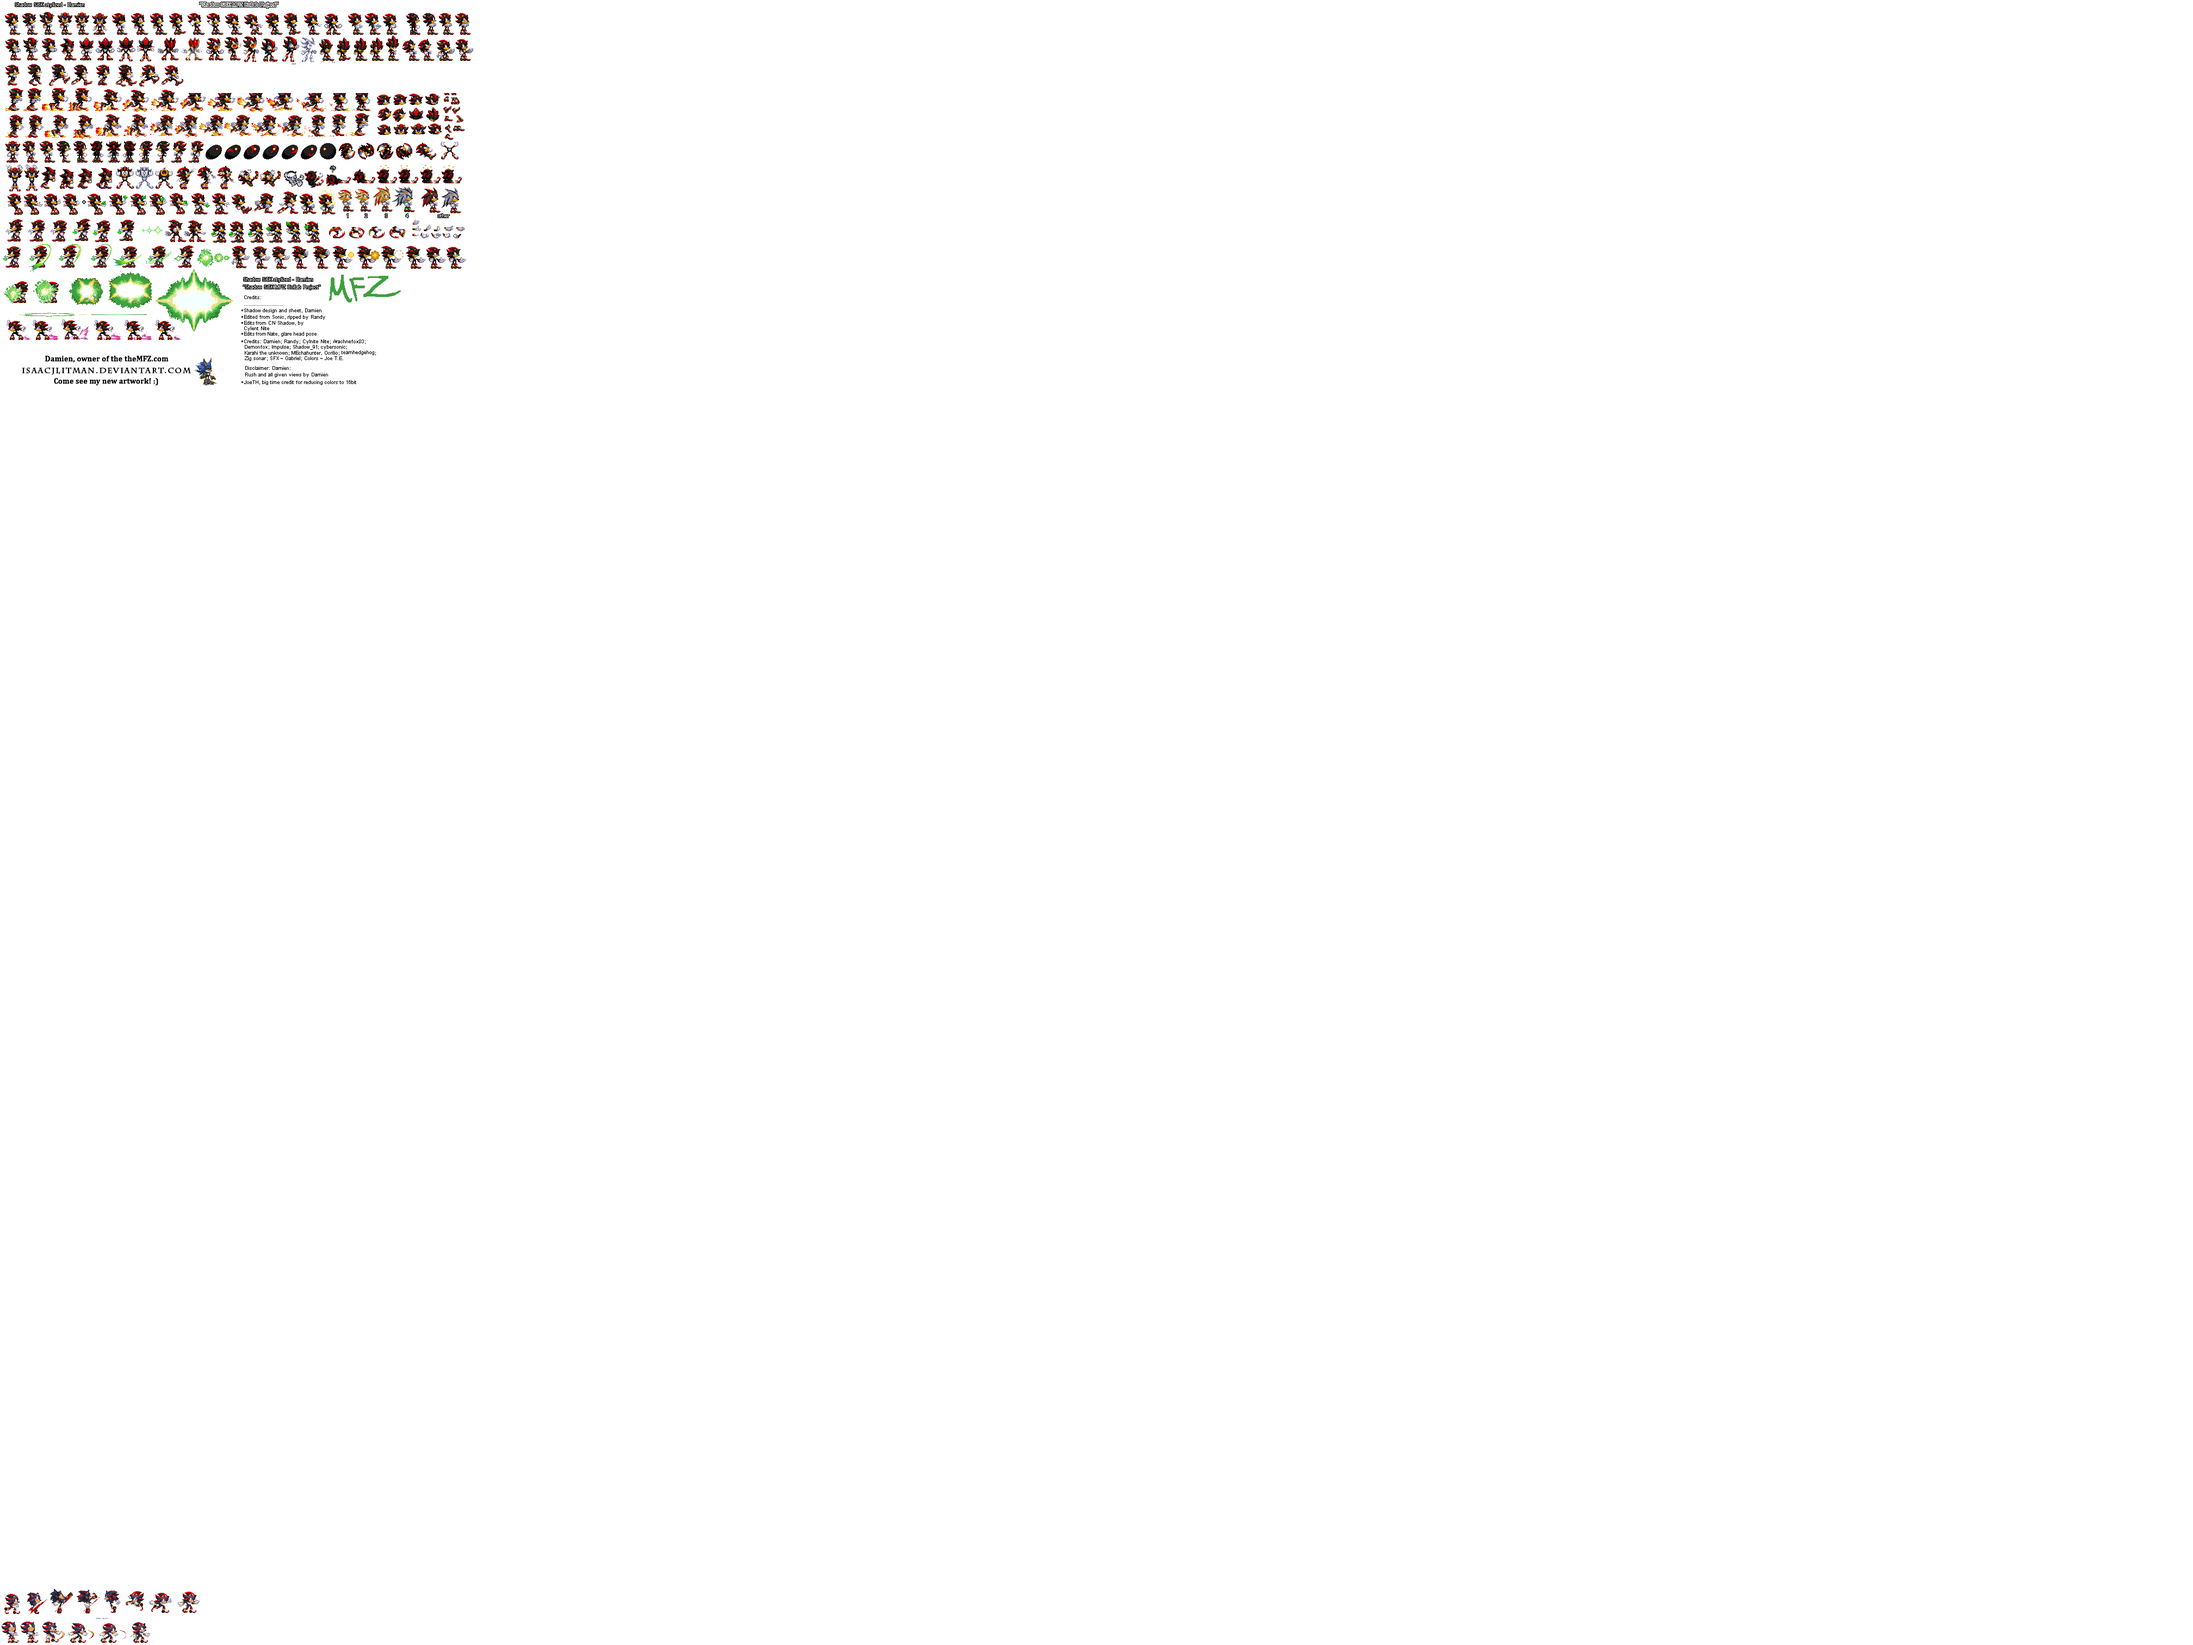
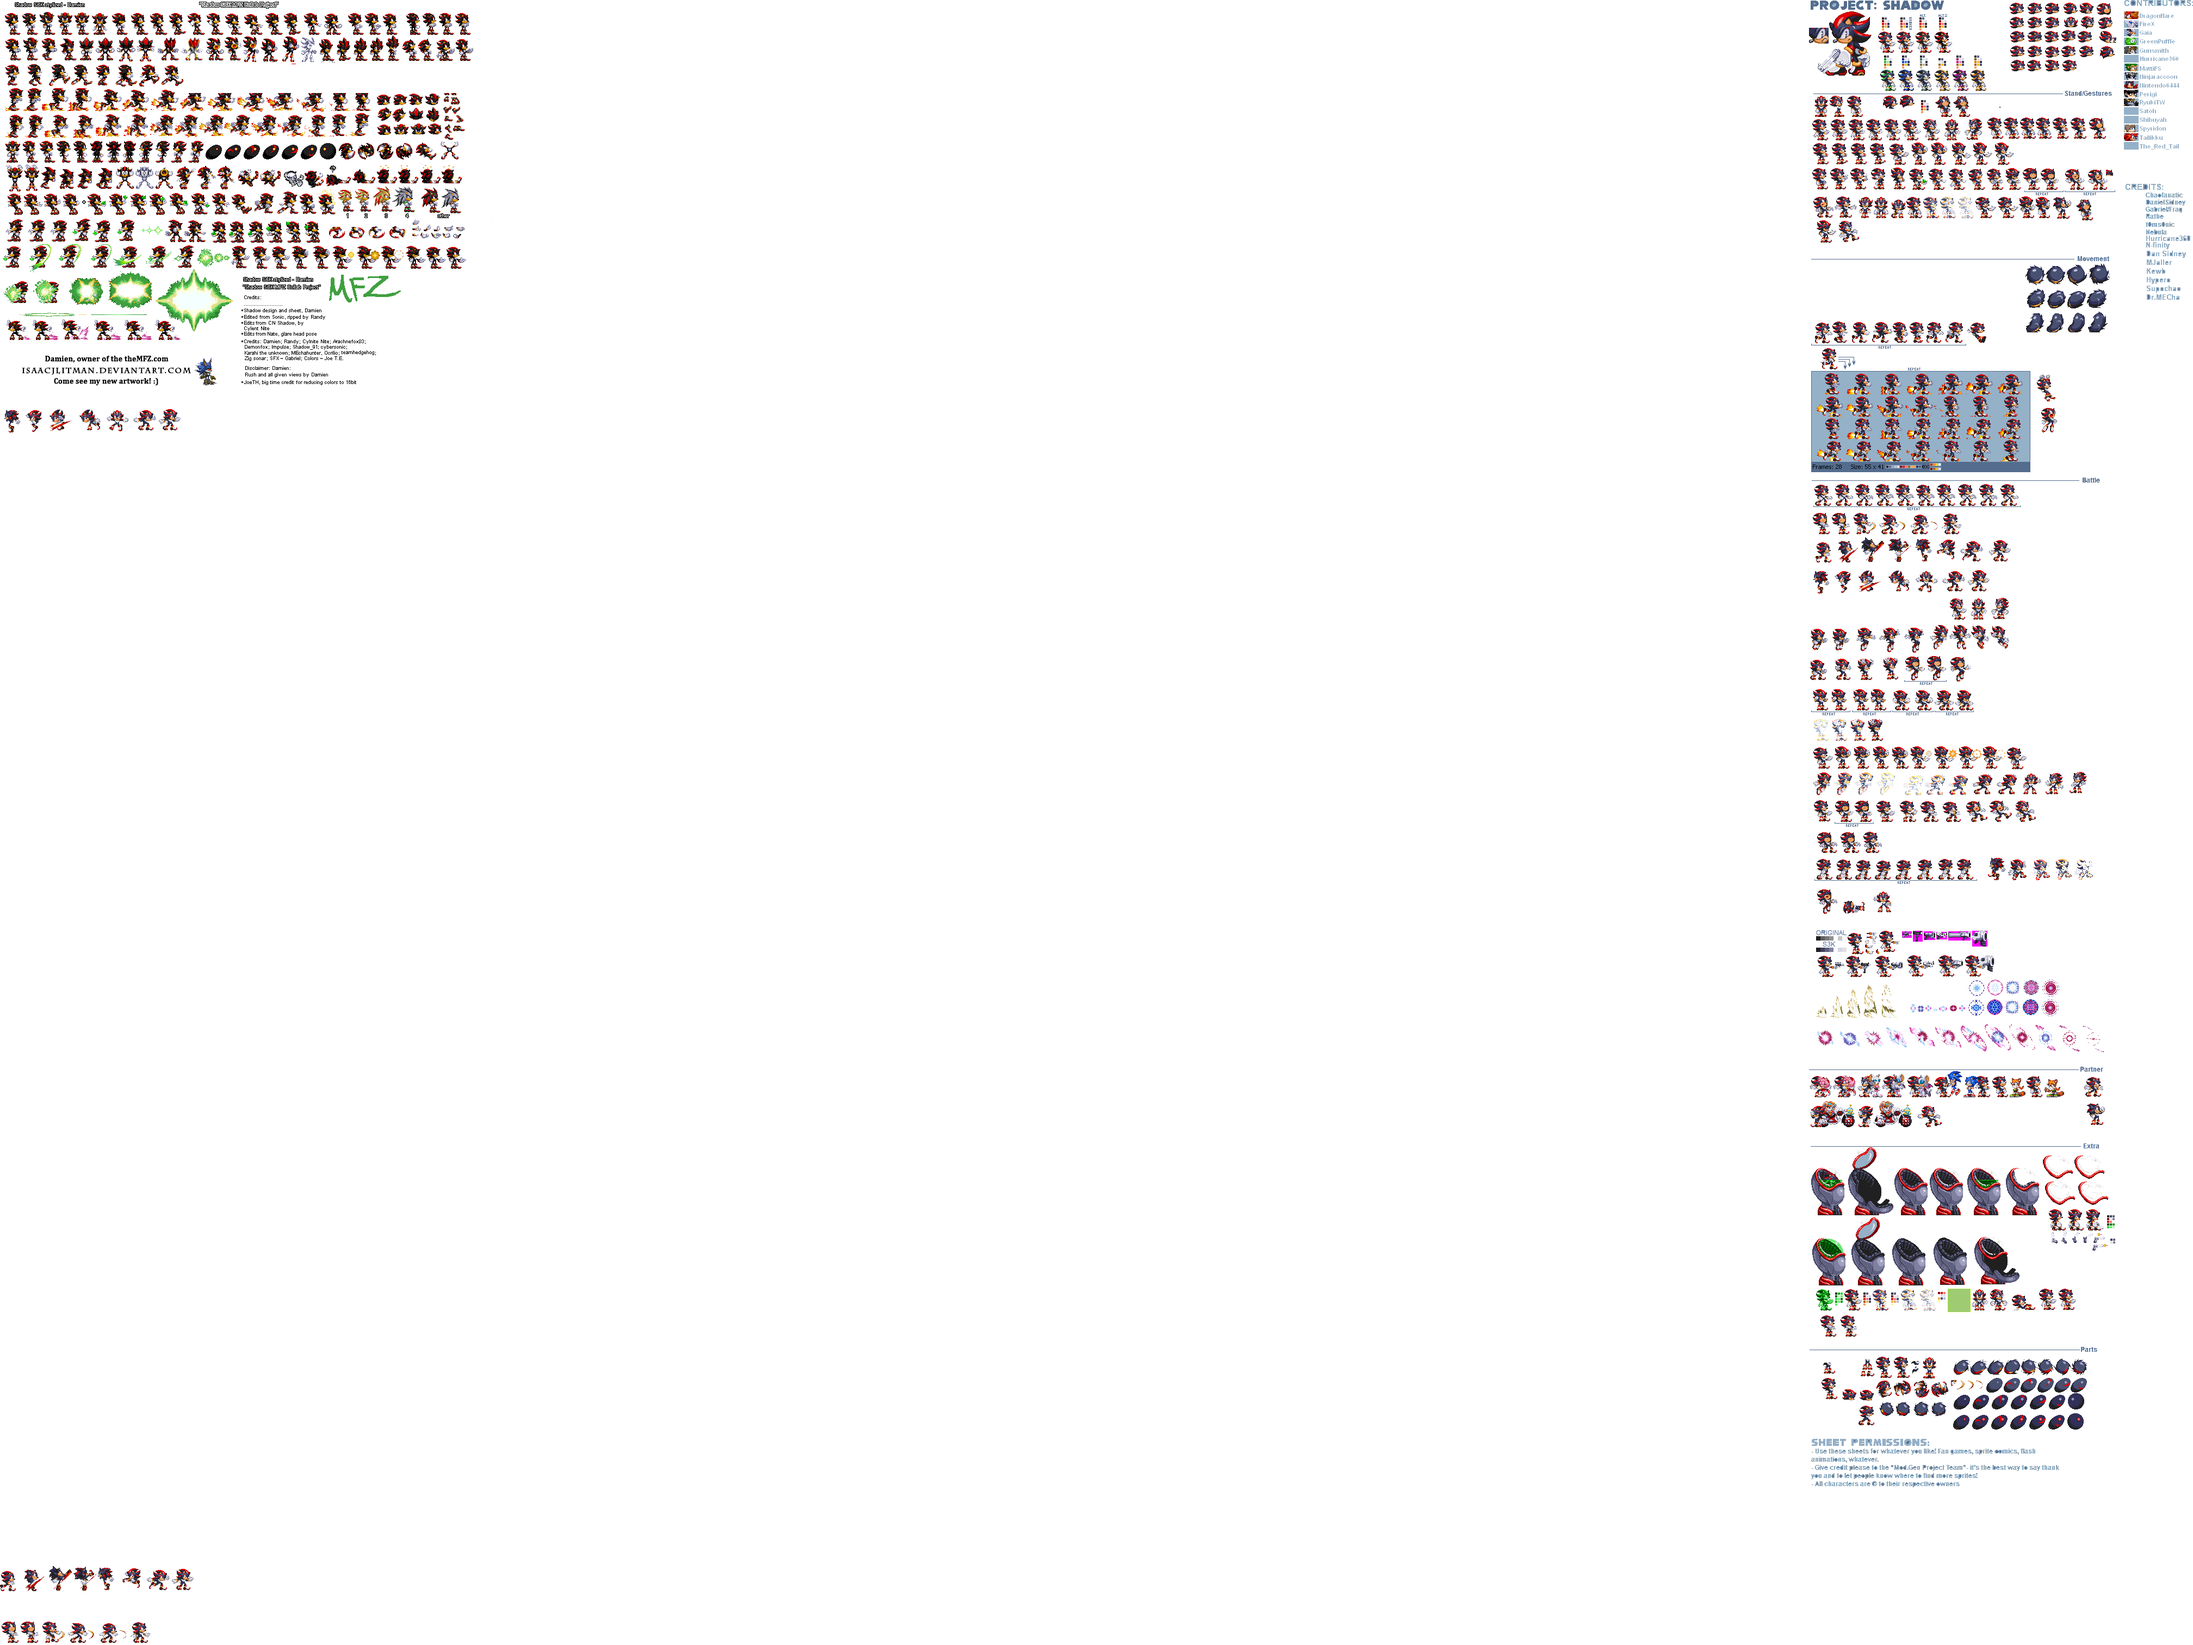
shadow, blaze 공격 구현
shadow, blaze 공격 애니메이션 구현

diff --git a/character.py b/character.py
@@ -81,6 +81,9 @@ key_event_table = {
     (SDL_KEYDOWN, SDLK_UP): JUMP
 }
 
+move_dir = [ False, False ]
+set_time, cur_time = 0, 0
+
 class IDLE:
     global move_dir
     @staticmethod
@@ -105,7 +108,6 @@ class IDLE:
                                             self.rotate, self.face_dir,
                                             self.x, self.y, self.idle_type[4], self.idle_type[5])
 
-move_dir = [ False, False ]
 class RUN:
     global move_dir
     def enter(self, event):
@@ -199,7 +201,6 @@ class Player_JUMP:
                                        self.rotate, self.face_dir,
                                        self.x, self.y, self.jump_type[4], self.jump_type[5])
 
-set_time, cur_time = 0, 0
 class ATTACK:
     @staticmethod
     def enter(self, event):
@@ -223,6 +224,7 @@ class ATTACK:
             self.face_dir = 'h'
         if move_dir[0] == False and move_dir[1] == False:
             self.dir_x = 0
+        self.attack += 1
 
     @staticmethod
     def exit(self, event):
@@ -268,6 +270,18 @@ next_state = {
 
 ########################################
 
+TIMER_PER_ACTION = 0.5
+ACTION_PER_TIME = 1.0 / TIMER_PER_ACTION
+FRAMES_PER_ACTION = 8
+
+PIXEL_PER_METER = 10.0 / 0.3
+RUN_SPEED_KPH = 20.0 # 마라토너의 평속
+RUN_SPEED_MPM = RUN_SPEED_KPH * 1000.0 / 60.0
+RUN_SPEED_MPS = RUN_SPEED_MPM / 60.0
+RUN_SPEED_PPS = RUN_SPEED_MPS * PIXEL_PER_METER
+
+########################################
+
 class Character:
     def __init__(self):
         self.hp = 100
@@ -283,6 +297,7 @@ class Character:
         self.jump_size = 0
         self.attack_size = 0
 
+        self.attack = 0
         self.damage = 6
         self.time = 0
         self.face_dir = 'None'  # 이미지 반전
@@ -401,7 +416,7 @@ class Knuckles(Character):
 
         self.idle_type = [0, 2980, 35, 40, 35, 40]
         self.move_type = [0, 2680, 40, 40, 40, 40]
-        self.jump_type = [0, 1074, 45, 40, 45, 40]
+        self.jump_type = [0, 1074, 45, 40, 40, 36]
         self.attack_type = [0, 1990, 50, 50, 50, 50]
 
     def update(self):
@@ -525,7 +540,7 @@ class Shadow(Character):
         self.idle_type = [0, 2958, 37, 40, 37, 40]
         self.move_type = [0, 2864, 42, 40, 42, 40]
         self.jump_type = [0, 2720, 38, 40, 38, 40]
-        self.attack_type = [0, 2720, 38, 40, 38, 40]
+        self.attack_type = [0, 100, 45, 44, 45, 44]
 
     def update(self):
         super(Shadow, self).update()
@@ -534,13 +549,14 @@ class Shadow(Character):
         self.idle_size = self.idle_frame * 35 + 202
         self.move_size = self.move_frame * 41 + 6
         self.jump_size = self.jump_frame * 35 + 620
-        self.attack_size = self.attack_frame * 35 + 620
+        self.attack_size = self.attack_frame * 45
 
         if self.time % 10 == 0:
             self.move_frame = (self.move_frame + 1) % 8
         if self.time % 10 == 0:
             self.idle_frame = (self.idle_frame + 1) % 4
             self.jump_frame = (self.jump_frame + 1) % 4
+            self.attack_frame = (self.attack_frame + 1) % 8
 
     def draw(self):
         self.cur_state.draw(self)
@@ -586,7 +602,7 @@ class Blaze(Character):
         self.idle_type = [0, 2810, 34, 40, 34, 40]
         self.move_type = [0, 2610, 35, 40, 35, 40]
         self.jump_type = [0, 2480, 35, 40, 35, 40]
-        self.attack_type = [0, 2480, 35, 40, 35, 40]
+        self.attack_type = [0, 1930, 45, 45, 40, 40]
 
     def update(self):
         super(Blaze, self).update()
@@ -595,12 +611,13 @@ class Blaze(Character):
         self.idle_size = self.idle_frame * 35 + 24
         self.move_size = self.move_frame * 35 + 24
         self.jump_size = self.jump_frame * 40 + 210
-        self.attack_size = self.attack_frame * 40 + 210
+        self.attack_size = self.attack_frame * 45 + 25 + (self.attack % 2) * 90
 
         if self.time % 5 == 0:
             self.idle_frame = (self.idle_frame + 1) % 13
             self.move_frame = (self.move_frame + 1) % 8
             self.jump_frame = (self.jump_frame + 1) % 3
+            self.attack_frame = (self.attack_frame + 1) % 2
 
     def draw(self):
         self.cur_state.draw(self)

diff --git a/map.py b/map.py
@@ -4,8 +4,10 @@ class Map:
     pass
 
 class Palm(Map):
+    image = None
     def __init__(self):
-        self.image = load_image('map/palmtree.png')
+        if Palm.image == None:
+            self.image = load_image('map/palmtree.png')
         self.image_floor = load_image('map/palmtree floor.png')
 
     def update(self):
@@ -27,9 +29,10 @@ class Palm(Map):
         return 0, 0, 1600 - 1, 50
 
 class Lake(Map):
-
+    image = None
     def __init__(self):
-        self.image = load_image('map/lake.png')
+        if Lake.image == None:
+            self.image = load_image('map/lake.png')
 
     def update(self):
         pass
@@ -38,8 +41,10 @@ class Lake(Map):
         self.image.clip_draw(0, 0, 800, 600, 400, 300)
 
 class Space(Map):
+    image = None
     def __init__(self):
-        self.image = load_image('map/space.png')
+        if Space.image == None:
+            self.image = load_image('map/space.png')
         self.image_floor = load_image('map/space floor.png')
 
     def update(self):

diff --git a/middle_state.py b/middle_state.py
@@ -31,6 +31,8 @@ def enter():
     pass
 
 def exit():
+    global image
+    image = None
     pass
 
 def draw():
